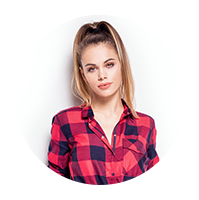
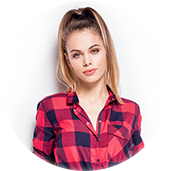
fixed :nth-child(n) and image-border as css border  Please enter the commit message for your changes. Lines starting

diff --git a/src/style.css b/src/style.css
@@ -25,7 +25,7 @@
 .item {
   padding-top: 100px;
 
-  &:nth-child(1) {
+  &:nth-child(1n) {
     .item {
       &__inner {
         background-color: var(--ui-dark-shade-color);
@@ -41,13 +41,13 @@
     }
   }
 
-  &:nth-child(2) {
+  &:nth-child(2n) {
     .item__inner {
       background-color: var(--ui-dark-accent-color);
     }
   }
 
-  &:nth-child(3) {
+  &:nth-child(3n) {
     .item__inner {
       background-color: var(--ui-light-accent-color);
     }
@@ -71,6 +71,7 @@
   &__pic {
     width: 200px;
     height: 200px;
+    border: 15px solid var(--ui-light-shade-color);
   }
 
   &__title {
